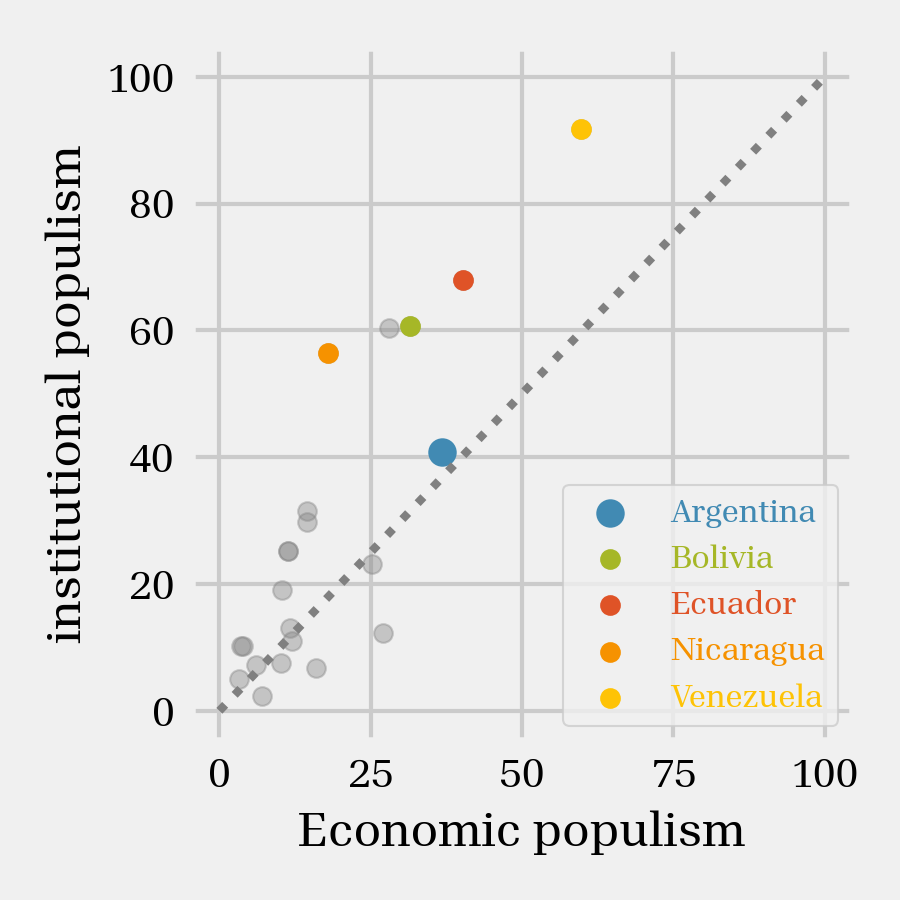
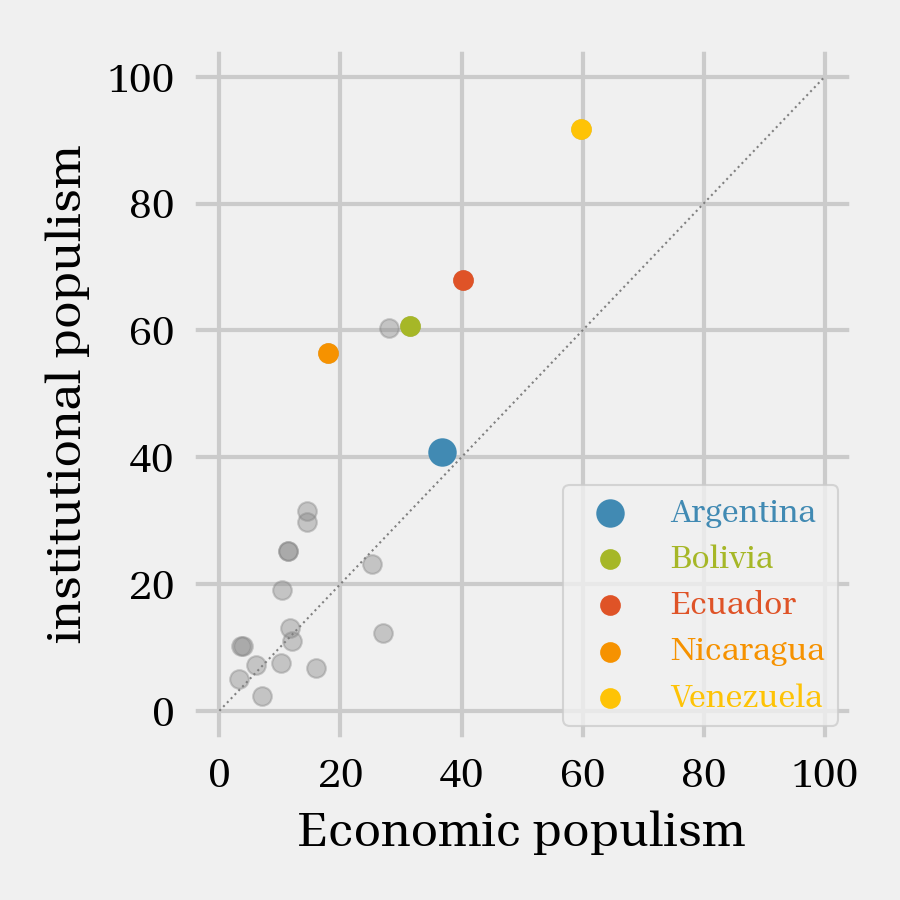
Plot updates.

diff --git a/visualizations.py b/visualizations.py
@@ -72,7 +72,7 @@ mpl.rcParams["lines.linewidth"] =   2
 mpl.rcParams["figure.dpi"]      = 300
 
 
-#### Color Palette
+#### Color Palette: Marquee
 colors = ['#418AB3',        # 0 Blue
           '#A6B727',        # 1 Green
           '#F69200',        # 2 Orange
@@ -136,9 +136,9 @@ y1 = POP['POPULISM']
 y2 = EP['EP']
 y3 = IP['IP']
 
-labels = ['Populism index',
-          'Economic Populism Sub-Index'    ,
-          'Institutional Populism Sub-Index']
+labels = ['Populism index'   ,
+          'Economic populism',
+          'Institutional populism']
 
 #### Average: Latin-America
 fig, ax = plt.subplots(figsize=fig_word)
@@ -234,7 +234,7 @@ for year in years:
     fig, ax = plt.subplots(figsize=fig_square)
     plt.title(year)
     plt.scatter(EP,IP, color = 'C2', s=20)
-    plt.plot([0,100],[0,100], color='gray', linewidth=0.5, ls='-.', alpha=0.5)
+    plt.plot([0,100],[0,100], color='gray', linewidth=0.5, ls=':', alpha=0.5)
     plt.xlabel('Economic populism')
     plt.ylabel('Institutional populism')
     plt.xticks(np.arange(0, 101, 20))
@@ -257,7 +257,7 @@ LABELS=['Argentina', 'Bolivia', 'Ecuador', 'Nicaragua', 'Venezuela']
 TITLE = "Populism transition"
 
 fig, ax = plt.subplots(figsize=fig_square)
-plt.plot([0,100],[0,100], color='gray', linewidth=0.5, ls='-.', alpha=0.5)
+plt.plot([0,100],[0,100], color='gray', linewidth=0.5, ls=':', alpha=0.5)
 plt.plot(ARG['EP'],ARG['IP'],'o-',lw=1, ms=2,color='C0',label=LABELS[0])
 plt.plot(BOL['EP'],BOL['IP'],'o-',lw=1, ms=2,color='C1',label=LABELS[1])
 plt.plot(ECU['EP'],ECU['IP'],'o-',lw=1, ms=2,color='C5',label=LABELS[2])
@@ -431,9 +431,10 @@ plt.scatter(ARG_B[0] , ARG_B[1] , color = 'C1', s=S[1], alpha=1.0, label=LABELS[
 plt.scatter(ARG_E[0] , ARG_E[1] , color = 'C5', s=S[1], alpha=1.0, label=LABELS[2])
 plt.scatter(ARG_N[0] , ARG_N[1] , color = 'C2', s=S[1], alpha=1.0, label=LABELS[3])
 plt.scatter(ARG_V[0] , ARG_V[1] , color = 'C4', s=S[1], alpha=1.0, label=LABELS[4])
-plt.plot([0,100],[0,100], color='gray', ls=':')
+plt.plot([0,100],[0,100], color='gray', ls=':', lw=0.5)
 plt.xlabel('Economic populism')
-plt.ylabel('institutional populism')
+plt.ylabel('Institutional populism')
+plt.xticks(np.arange(0, 101, 20))
 plt.axis_range = axis_range
 plt.legend(labelcolor='linecolor', fontsize=8, loc='lower right')
 plt.tight_layout()
@@ -457,9 +458,10 @@ plt.scatter(BOL_B[0] , BOL_B[1] , color = 'C1', s=S[0], alpha=1.0, label=LABELS[
 plt.scatter(BOL_E[0] , BOL_E[1] , color = 'C5', s=S[1], alpha=1.0, label=LABELS[2])
 plt.scatter(BOL_N[0] , BOL_N[1] , color = 'C2', s=S[1], alpha=1.0, label=LABELS[3])
 plt.scatter(BOL_V[0] , BOL_V[1] , color = 'C4', s=S[1], alpha=1.0, label=LABELS[4])
-plt.plot([0,100],[0,100], color='gray', ls=':')
+plt.plot([0,100],[0,100], color='gray', ls=':', lw=0.5)
 plt.xlabel('Economic populism')
-plt.ylabel('institutional populism')
+plt.ylabel('Institutional populism')
+plt.xticks(np.arange(0, 101, 20))
 plt.axis_range = axis_range
 plt.legend(labelcolor='linecolor', fontsize=8, loc='lower right')
 plt.tight_layout()
@@ -483,9 +485,10 @@ plt.scatter(ECU_B[0] , ECU_B[1] , color = 'C1', s=S[1], alpha=1.0, label=LABELS[
 plt.scatter(ECU_E[0] , ECU_E[1] , color = 'C5', s=S[0], alpha=1.0, label=LABELS[2])
 plt.scatter(ECU_N[0] , ECU_N[1] , color = 'C2', s=S[1], alpha=1.0, label=LABELS[3])
 plt.scatter(ECU_V[0] , ECU_V[1] , color = 'C4', s=S[1], alpha=1.0, label=LABELS[4])
-plt.plot([0,100],[0,100], color='gray', ls=':')
+plt.plot([0,100],[0,100], color='gray', ls=':', lw=0.5)
 plt.xlabel('Economic populism')
-plt.ylabel('institutional populism')
+plt.ylabel('Institutional populism')
+plt.xticks(np.arange(0, 101, 20))
 plt.axis_range = axis_range
 plt.legend(labelcolor='linecolor', fontsize=8, loc='lower right')
 plt.tight_layout()
@@ -509,9 +512,10 @@ plt.scatter(NIC_B[0] , NIC_B[1] , color = 'C1', s=S[1], alpha=1.0, label=LABELS[
 plt.scatter(NIC_E[0] , NIC_E[1] , color = 'C5', s=S[1], alpha=1.0, label=LABELS[2])
 plt.scatter(NIC_N[0] , NIC_N[1] , color = 'C2', s=S[0], alpha=1.0, label=LABELS[3])
 plt.scatter(NIC_V[0] , NIC_V[1] , color = 'C4', s=S[1], alpha=1.0, label=LABELS[4])
-plt.plot([0,100],[0,100], color='gray', ls=':')
+plt.plot([0,100],[0,100], color='gray', ls=':', lw=0.5)
 plt.xlabel('Economic populism')
-plt.ylabel('institutional populism')
+plt.ylabel('Institutional populism')
+plt.xticks(np.arange(0, 101, 20))
 plt.axis_range = axis_range
 plt.legend(labelcolor='linecolor', fontsize=8, loc='lower right')
 plt.tight_layout()
@@ -535,9 +539,10 @@ plt.scatter(VEN_B[0] , VEN_B[1] , color = 'C1', s=S[1], alpha=1.0, label=LABELS[
 plt.scatter(VEN_E[0] , VEN_E[1] , color = 'C5', s=S[1], alpha=1.0, label=LABELS[2])
 plt.scatter(VEN_N[0] , VEN_N[1] , color = 'C2', s=S[1], alpha=1.0, label=LABELS[3])
 plt.scatter(VEN_V[0] , VEN_V[1] , color = 'C4', s=S[0], alpha=1.0, label=LABELS[4])
-plt.plot([0,100],[0,100], color='gray', ls=':')
+plt.plot([0,100],[0,100], color='gray', ls=':', lw=0.5)
 plt.xlabel('Economic populism')
-plt.ylabel('institutional populism')
+plt.ylabel('Institutional populism')
+plt.xticks(np.arange(0, 101, 20))
 plt.axis_range = axis_range
 plt.legend(labelcolor='linecolor', fontsize=8, loc='lower right')
 plt.tight_layout()
